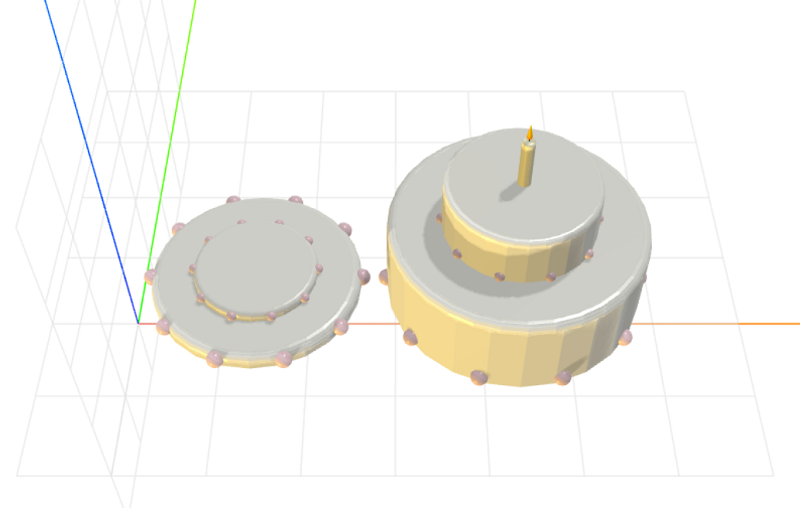
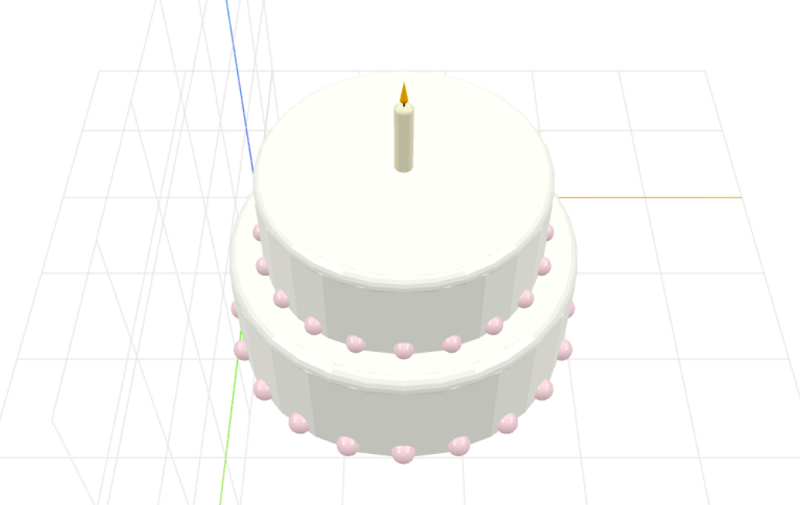
Updated README

diff --git a/README.md b/README.md
@@ -22,16 +22,13 @@ Parameterized cake model.
 
 ### Example
 ```html
-<craft>
+<craft name="cake">
     <craft name="cake" module="craft-weddingcake"/>
     <craft name="candle" module="craft-candle"/>
-    <row spacing="1">
-        <cake width="25" height="1"/></cake>
-        <stack>
-            <candle height="20" width="5" t="scale(0.3 0.3 0.3)"></candle>
-            <cake></cake>
-        </stack>
-    </row>
+    <stack>
+        <candle height="20" width="5" t="scale(0.3 0.3 0.3)"></candle>
+        <cake></cake>
+    </stack>
 </craft>
 ```
 
